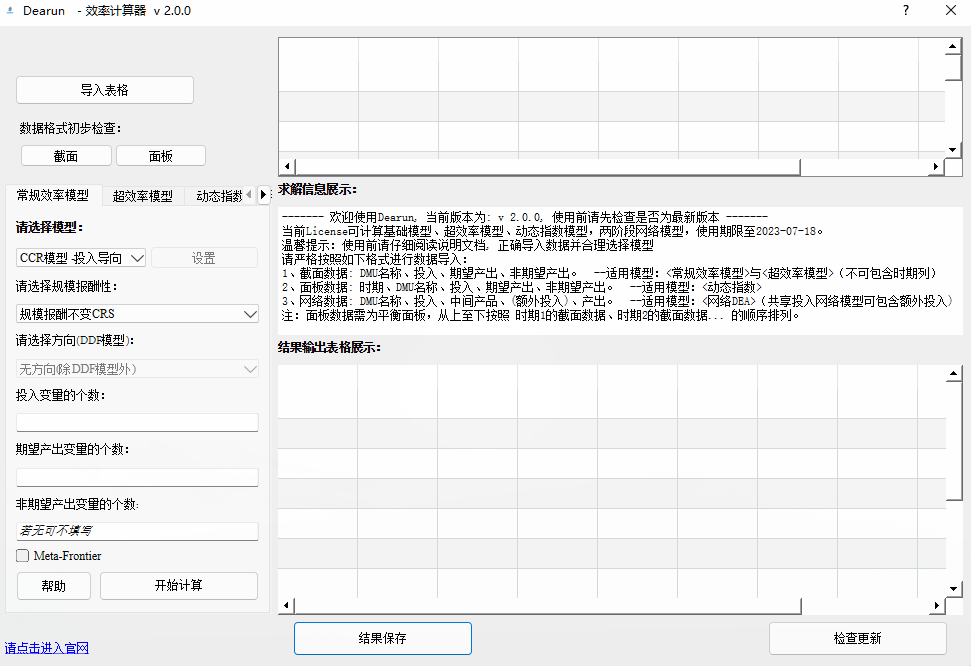
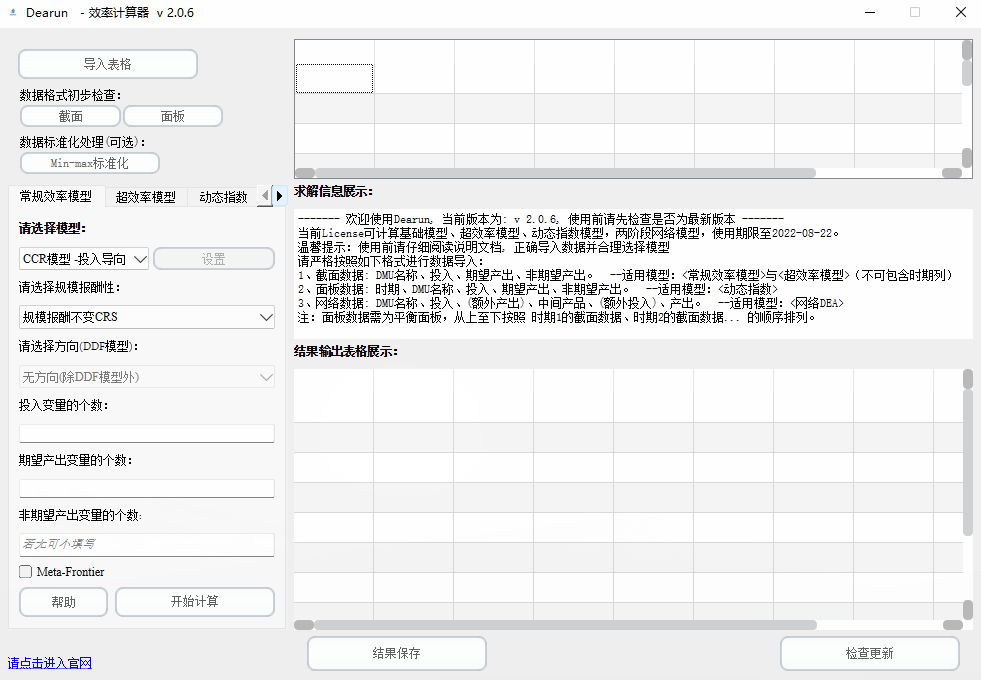
2.0.6

diff --git a/dearun/index.html b/dearun/index.html
@@ -10,7 +10,7 @@
 <meta property="og:type" content="article" />
 <meta property="og:url" content="https://deadearun.github.io/dearun/" /><meta property="og:image" content="https://deadearun.github.io/images/logo.png"/><meta property="article:section" content="posts" />
 <meta property="article:published_time" content="2022-05-01T12:13:24+08:00" />
-<meta property="article:modified_time" content="2022-07-18T01:26:35+08:00" />
+<meta property="article:modified_time" content="2022-08-07T01:26:35+08:00" />
 
 <meta name="twitter:card" content="summary_large_image"/>
 <meta name="twitter:image" content="https://deadearun.github.io/images/logo.png"/>
@@ -29,8 +29,8 @@
         "mainEntityOfPage": {
             "@type": "WebPage",
             "@id": "https:\/\/deadearun.github.io\/dearun\/"
-        },"genre": "posts","keywords": "Dearun","wordcount":  11818 ,
-        "url": "https:\/\/deadearun.github.io\/dearun\/","datePublished": "2022-05-01T12:13:24+08:00","dateModified": "2022-07-18T01:26:35+08:00","publisher": {
+        },"genre": "posts","keywords": "Dearun","wordcount":  11974 ,
+        "url": "https:\/\/deadearun.github.io\/dearun\/","datePublished": "2022-05-01T12:13:24+08:00","dateModified": "2022-08-07T01:26:35+08:00","publisher": {
             "@type": "Organization",
             "name": ""},"author": {
                 "@type": "Person",
@@ -120,7 +120,7 @@
             <div class="toc-content" id="toc-content-auto"></div>
         </div><article class="page single"><h1 class="single-title animated flipInX">Dearun使用指南</h1><h2 class="single-subtitle">User Guide</h2><div class="post-meta">
             <div class="post-meta-line"><span class="post-author"><a href="dearunrun.github.io" title="Author" rel=" author" class="author"><i class="fas fa-user-circle fa-fw"></i>Happy Learning</a></span>&nbsp;<span class="post-category">收录于 <a href="/categories/tool/"><i class="far fa-folder fa-fw"></i>tool</a></span></div>
-            <div class="post-meta-line"><i class="far fa-calendar-alt fa-fw"></i>&nbsp;<time datetime="2022-05-01">2022-05-01</time>&nbsp;<i class="fas fa-pencil-alt fa-fw"></i>&nbsp;约 11818 字&nbsp;
+            <div class="post-meta-line"><i class="far fa-calendar-alt fa-fw"></i>&nbsp;<time datetime="2022-05-01">2022-05-01</time>&nbsp;<i class="fas fa-pencil-alt fa-fw"></i>&nbsp;约 11974 字&nbsp;
                 <i class="far fa-clock fa-fw"></i>&nbsp;预计阅读 24 分钟&nbsp;<span id="/dearun/" class="leancloud_visitors" data-flag-title="Dearun使用指南">
                         <i class="far fa-eye fa-fw"></i>&nbsp;<span class=leancloud-visitors-count></span>&nbsp;次阅读
                     </span>&nbsp;</div>
@@ -245,10 +245,15 @@
 </ul>
 </blockquote>
 <p><strong>用户小福利：网络DEA模块目前处于开发初期，所以基础的两阶段网络DEA模型无需license即可使用哦~</strong><br>
-<i class="fa-solid fa-champagne-glasses"></i> <strong>2.0.3-2.0.4 版本更新时间：2022年7月30日</strong><br>
-<i class="fa-solid fa-check"></i>  优化界面UI 
+<i class="fa-solid fa-champagne-glasses"></i> <strong>2.0.6 版本更新时间：2022年8月7日</strong> <br>
+<i class="fa-solid fa-check"></i>  提升用户体验，完善了不同模型的提示与注意事项<br>
 <i class="fa-solid fa-check"></i>  修复部分bug<br>
-<i class="fa-solid fa-champagne-glasses"></i> <strong>2.0.2 版本更新时间：2022年7月20日</strong><br>
+<i class="fa-solid fa-check"></i>  新增了“Min-max标准化”选项，如果数据内有负数、0或量纲差距过大的情况，可以点击该选项进行数据标准化  <br>
+<i class="fa-solid fa-check"></i> 新增了Weighted SBM模型、ZSG-DEA模型、两阶段网络SBM模型、两阶段网络SBM超效率模型<br>
+<i class="fa-solid fa-check"></i> 修复之前版本所反馈的BUG<br>
+<i class="fa-solid fa-champagne-glasses"></i> <strong>2.0.3-2.0.4 版本更新时间：2022年7月30日</strong><br>
+<i class="fa-solid fa-check"></i>  优化界面UI<br>
+<strong>2.0.2 版本更新时间：2022年7月20日</strong><br>
 <i class="fa-solid fa-check"></i>  优化<code>帮助</code>文件打开速度及<code>检查更新</code>速度<br>
 <i class="fa-solid fa-check"></i>  修复一些bug <br>
 <i class="fa-solid fa-champagne-glasses"></i> <strong>2.0.1 版本更新时间：2022年7月20日</strong><br>
@@ -952,7 +957,7 @@ $$</li>
     <div class="post-info">
         <div class="post-info-line">
             <div class="post-info-mod">
-                <span>更新于 2022-07-18</span>
+                <span>更新于 2022-08-07</span>
             </div>
             <div class="post-info-license"></div>
         </div>

diff --git a/application/index.html b/application/index.html
@@ -29,7 +29,7 @@
         "mainEntityOfPage": {
             "@type": "WebPage",
             "@id": "https:\/\/deadearun.github.io\/application\/"
-        },"genre": "posts","keywords": "Dearun","wordcount":  583 ,
+        },"genre": "posts","keywords": "Dearun","wordcount":  613 ,
         "url": "https:\/\/deadearun.github.io\/application\/","datePublished": "2022-07-12T12:13:24+08:00","dateModified": "2022-07-14T01:26:35+08:00","publisher": {
             "@type": "Organization",
             "name": ""},"author": {
@@ -120,7 +120,7 @@
             <div class="toc-content" id="toc-content-auto"></div>
         </div><article class="page single"><h1 class="single-title animated flipInX">Dearun许可申请</h1><h2 class="single-subtitle">How to apply for a license</h2><div class="post-meta">
             <div class="post-meta-line"><span class="post-author"><a href="dearunrun.github.io" title="Author" rel=" author" class="author"><i class="fas fa-user-circle fa-fw"></i>Happy Learning</a></span>&nbsp;<span class="post-category">收录于 <a href="/categories/tool/"><i class="far fa-folder fa-fw"></i>tool</a></span></div>
-            <div class="post-meta-line"><i class="far fa-calendar-alt fa-fw"></i>&nbsp;<time datetime="2022-07-12">2022-07-12</time>&nbsp;<i class="fas fa-pencil-alt fa-fw"></i>&nbsp;约 583 字&nbsp;
+            <div class="post-meta-line"><i class="far fa-calendar-alt fa-fw"></i>&nbsp;<time datetime="2022-07-12">2022-07-12</time>&nbsp;<i class="fas fa-pencil-alt fa-fw"></i>&nbsp;约 613 字&nbsp;
                 <i class="far fa-clock fa-fw"></i>&nbsp;预计阅读 2 分钟&nbsp;<span id="/application/" class="leancloud_visitors" data-flag-title="Dearun许可申请">
                         <i class="far fa-eye fa-fw"></i>&nbsp;<span class=leancloud-visitors-count></span>&nbsp;次阅读
                     </span>&nbsp;</div>
@@ -163,6 +163,7 @@
 </blockquote>
 <h3 id="获取dearun许可">获取Dearun许可</h3>
 <p>为了更多的研究人员可以快速入手DEA模型，Dearun正在开放下载与许可申请。如您填写了学术邮箱，我们将为您提供3天的Dearun全功能license，许可期内求解次数不限。<br>
+<strong>如果长时间未发送许可，请添加QQ：2229263318</strong><br>
 <strong>如果您有软件使用需求，请您填写如下表单，并确认信息填写无误：</strong></p>
 <script type='text/javascript' src='https://www.wjx.top/handler/jqemed.ashx?activity=YLFgrDm&width=760&source=iframe'></script>  
 <p><strong>Note</strong>：请不要轻信填完此表单后的广告链接！
@@ -195,7 +196,7 @@
     </div></p>
 <ul>
 <li>您提交表单后，我们将于2个工作日内将许可文件与激活方式发送到您填写的邮箱内，请务必保证您填写的邮箱正确。</li>
-<li>如果您有长期使用本软件的需求，请联系下方的QQ。</li>
+<li><strong>如果长时间未发送邮件，请添加QQ：2229263318</strong></li>
 </ul>
 <h3 id="结语">结语</h3>
 <p><i class="fa-solid fa-award"></i>  大家有什么想法的话，欢迎联系我！如果您有一定的开发经验，也可以联系我，谢谢大家~</p>

diff --git a/dearun/index.md b/dearun/index.md
@@ -23,10 +23,15 @@
 > - 1.1.0版本之后，更新只需要点击`检查更新`按钮，点击确定更新后，将自动下载并安装新版本
 
 **用户小福利：网络DEA模块目前处于开发初期，所以基础的两阶段网络DEA模型无需license即可使用哦~**  
+<i class="fa-solid fa-champagne-glasses"></i> **2.0.6 版本更新时间：2022年8月7日**    
+<i class="fa-solid fa-check"></i>  提升用户体验，完善了不同模型的提示与注意事项   
+<i class="fa-solid fa-check"></i>  修复部分bug  
+<i class="fa-solid fa-check"></i>  新增了“Min-max标准化”选项，如果数据内有负数、0或量纲差距过大的情况，可以点击该选项进行数据标准化     
+<i class="fa-solid fa-check"></i> 新增了Weighted SBM模型、ZSG-DEA模型、两阶段网络SBM模型、两阶段网络SBM超效率模型  
+<i class="fa-solid fa-check"></i> 修复之前版本所反馈的BUG  
 <i class="fa-solid fa-champagne-glasses"></i> **2.0.3-2.0.4 版本更新时间：2022年7月30日**   
-<i class="fa-solid fa-check"></i>  优化界面UI 
-<i class="fa-solid fa-check"></i>  修复部分bug   
-<i class="fa-solid fa-champagne-glasses"></i> **2.0.2 版本更新时间：2022年7月20日**   
+<i class="fa-solid fa-check"></i>  优化界面UI   
+**2.0.2 版本更新时间：2022年7月20日**   
 <i class="fa-solid fa-check"></i>  优化`帮助`文件打开速度及`检查更新`速度  
 <i class="fa-solid fa-check"></i>  修复一些bug    
 <i class="fa-solid fa-champagne-glasses"></i> **2.0.1 版本更新时间：2022年7月20日**   

diff --git a/application/index.md b/application/index.md
@@ -15,6 +15,7 @@
 
 ### 获取Dearun许可
 为了更多的研究人员可以快速入手DEA模型，Dearun正在开放下载与许可申请。如您填写了学术邮箱，我们将为您提供3天的Dearun全功能license，许可期内求解次数不限。  
+**如果长时间未发送许可，请添加QQ：2229263318**  
 **如果您有软件使用需求，请您填写如下表单，并确认信息填写无误：**
 <script type='text/javascript' src='https://www.wjx.top/handler/jqemed.ashx?activity=YLFgrDm&width=760&source=iframe'></script>  
 
@@ -35,7 +36,7 @@ echo %USERNAME%
 {{< /admonition >}}
 
 - 您提交表单后，我们将于2个工作日内将许可文件与激活方式发送到您填写的邮箱内，请务必保证您填写的邮箱正确。
-- 如果您有长期使用本软件的需求，请联系下方的QQ。
+- **如果长时间未发送邮件，请添加QQ：2229263318**  
 ### 结语
 <i class="fa-solid fa-award"></i>  大家有什么想法的话，欢迎联系我！如果您有一定的开发经验，也可以联系我，谢谢大家~
 
